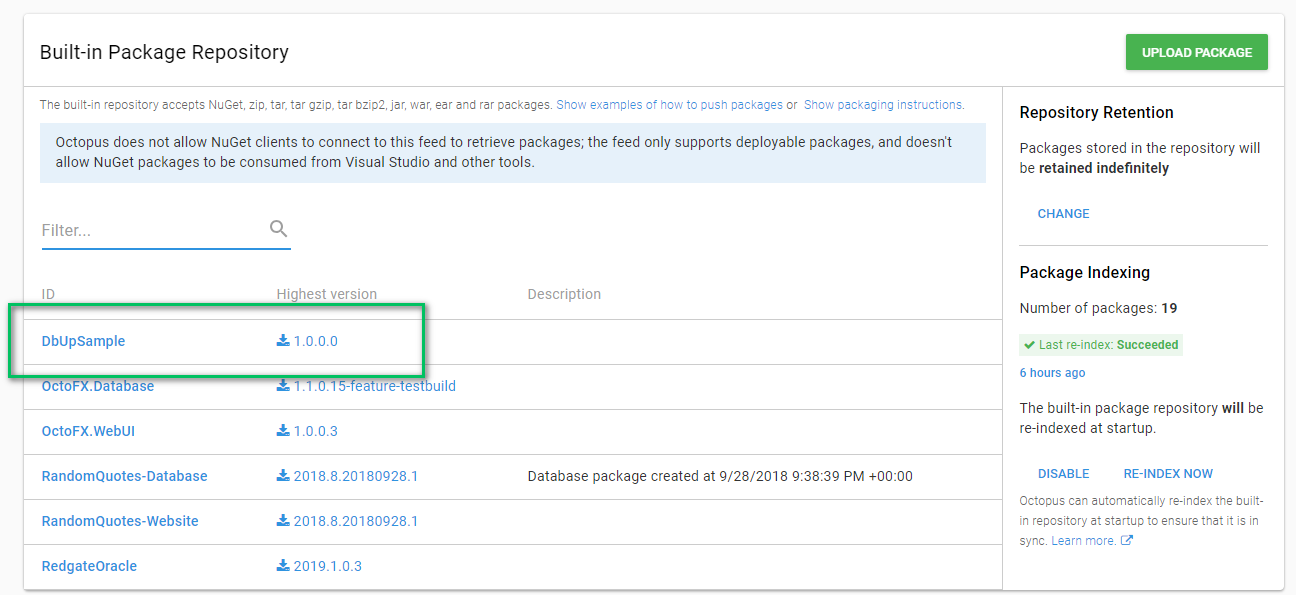
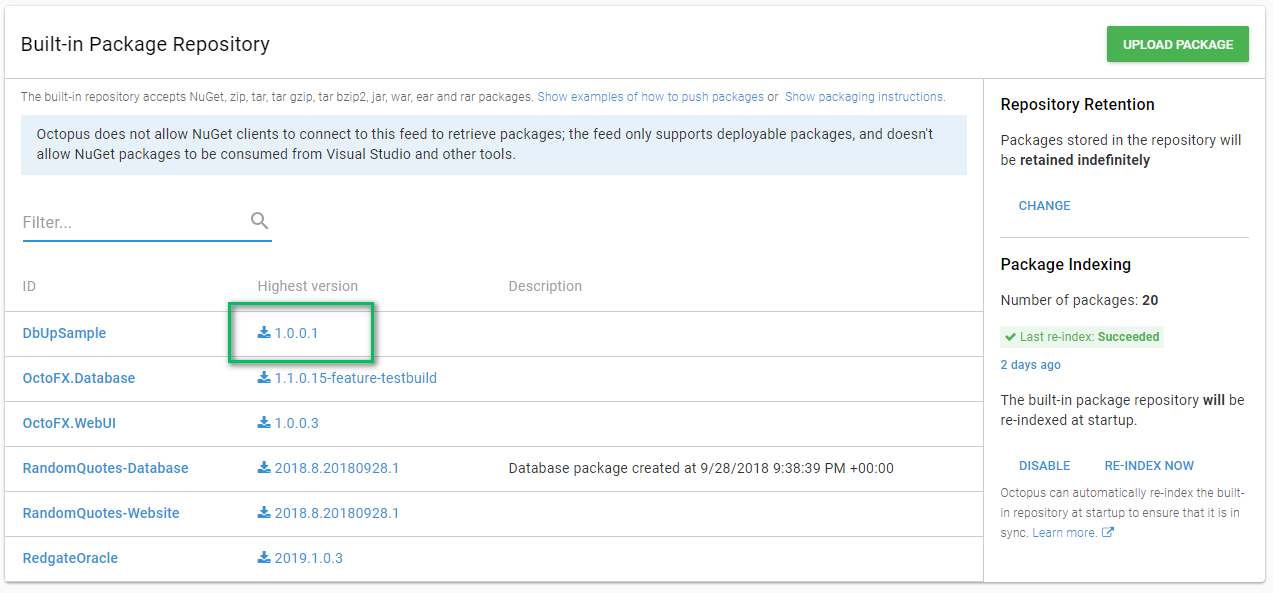
Wrapping up DbUp blog post.

diff --git a/blog/2019-02/dbup-database-deployments/index.md b/blog/2019-02/dbup-database-deployments/index.md
@@ -1,6 +1,17 @@
-One of the most exciting aspects of database deployments is the number of tools released in the last 10 years.  Looking at my [previous posts](https://octopus.com/blog/tag/Database%20Deployments) on this topic and I have shown a clear bias towards Redgate's tooling.  I do have a bit of a bias towards their tools.  I'm a [friend of Redgate](https://www.red-gate.com/hub/events/friends-of-rg/friend/BobWalker) for a reason.  
+---
+title: Using DBUp and Workers to Automate Database Deployments
+description: Using DBUp and Workers to Automate Database Deployments
+author: bob.walker@octopus.com
+visibility: public
+published: 2019-02-28
+metaImage: metaimage-sqlscript.png
+bannerImage: blogimage-sqlscript.png
+tags:
+ - Database Deployments
+---
+One of the most exciting aspects of database deployments is the number of tools released in the last ten years.  Looking at my [previous posts](https://octopus.com/blog/tag/Database%20Deployments) on this topic and I have shown a clear bias towards Redgate's tooling.  I do have a bit of a bias towards their tools.  I'm a [friend of Redgate](https://www.red-gate.com/hub/events/friends-of-rg/friend/BobWalker) for a reason.  
 
-I'm going to switch gears a bit and focus on a different tool for this post, [DbUp](https://dbup.readthedocs.io/en/latest/).  DbUp is a free, open-source tool, which we use here at Octopus Deploy for our database deployments.  Anytime you install or upgrade Octopus Deploy, DbUp is the one who runs the scripts to update your database.  Our founder, Paul Stovell, wrote a [blog post back](https://github.com/DbUp/DbUp/graphs/contributors) in 2012 on how to use DBUp to deploy to a SQL Server.  For the most part, that blog post still holds up today.  Except for the outdated images.  Want to see what Octopus Deploy looked like years ago?  Check out that post.  
+I'm going to switch gears a bit and focus on a different tool for this post, [DbUp](https://dbup.readthedocs.io/en/latest/).  DbUp is a free, open-source tool, which we use here at Octopus Deploy for our database deployments.  Anytime you install or upgrade Octopus Deploy, DbUp is the one who runs the scripts to update your database.  Our founder, Paul Stovell, wrote a [blog post back](https://github.com/DbUp/DbUp/graphs/contributors) in 2012 on how to use DbUp to deploy to a SQL Server.  For the most part, that blog post still holds up today.  Except for the old images.  Want to see what Octopus Deploy looked like years ago?  Check out that post.  
 
 This post is an update to that old post.  I am going to walk through some of the new features recently added to DbUp and create a process to use DbUp for production deployments.  It even includes a review step for a DBA to approve!  Read on!
 
@@ -8,13 +19,13 @@ This post is an update to that old post.  I am going to walk through some of the
 
 ## Changes to DbUp
 
-At it's core, DbUp is a script runner.  Each change made to the database is done by a script.
+At its core, DbUp is a script runner.  Each change made to the database is done via a script.
 
 - Script001_AddTableA.sql
 - Script002_AddColumnTestToTableA.sql
 - Script003_AddColumnTestAgainToTableA.sql
 
-DbUp is then run through a console application you write yourself.  You control which options to use.  The amount of code needed is pretty small.
+DbUp runs through a console application you write yourself.  You control which options to use.  The amount of code needed is pretty small.
 
 ```C
 static int Main(string[] args)
@@ -49,17 +60,17 @@ static int Main(string[] args)
 }
 ```
 
-You bundle up those scripts and tell DbUp to run them.  It compares that list against a list stored in the destination database.  Any scripts not in that destination's database list will be ran.  The scripts are run in alphabetical order.  The results of each script is displayed.  Very simple to implement.  Very simple to understand.  
+You bundle up those scripts and tell DbUp to run them.  It compares that list against a list stored in the destination database.  Any scripts not in that destination's database list will be run.  The scripts are executed in alphabetical order.  The results of each script are displayed on the console.  Very simple to implement.  Very simple to understand.  
 
 ![](dbup-output.png)
 
-And that works great...when deploying to a development or test environment.  A lot of companies I talk to prefer a DBA approve scripts prior to going to production.  And, maybe a staging or pre-production environment as well.  Especially starting out.  When the trust in the process is low.  
+That works great...when deploying to a development or test environment.  Many companies I talk to prefer their DBAs approve scripts before going to production.  Maybe a staging or pre-production environment as well.  This approval process is essential, especially at the start.  At that time the trust in the process is low.  
 
 ### HTML Report
 
-Migration scripts are a double edged sword.  Just like memory management in C++.  You have total control, which gives you a lot of power.  But it is also easy to mess up.  It all depends on the type of change being done and the SQL Skills of the writer.  The trust of the DBAs will be very low when have inexperienced C# developers writing these migration scripts.  Especially if you are starting down the automated database deployment path.  
+Migration scripts are a double-edged sword, just like memory management in C++.  You have total control, which gives you much power.  However, it is also easy to mess up.  It all depends on the type of change being done and the SQL Skills of the writer.  The trust of the DBAs will be very low when inexperienced C# developers are writing these migration scripts.  Especially if you are starting down the automated database deployment path.  
 
-Recently I added in the the functionality to DbUp to generate an HTML report.  It is an extension method where you give it the path of the report you wish to generate.  That means this section goes from:
+Recently the functionality was added to DbUp to generate an HTML report.  It is an extension method where you give it the path of the report you wish to generate.  That means this section goes from:
 
 ```C
 var result = upgrader.PerformUpgrade();
@@ -97,15 +108,15 @@ else
 }
 ```
 
-This will generate a report containing all the scripts which are going to be run.
+That code will generate a report containing all the scripts which are going to be run.
 
 ![](db-htmlreport.png)
 
 ### Always Run Script and Script Grouping
 
-By default DbUp will run a script once.  Majority of the time that is fine.  There are times where it would be nice to always run a script.  An example would be a post deployment script to refresh all the views.  Or a script to rebuild all the indexes and regenerate stats.  You don't want to write a new script for each deployment.
+By default, DbUp will run a script once.  Majority of the time that is fine.  There are times where it would be nice to always run a script or set of scripts.  An example would be a post-deployment script to refresh all the views.  Alternatively, a script to rebuild all the indexes and regenerate stats.  You don't want to write a new script for each deployment.
 
-Another feature I added to DbUp is the ability to mark a group of scripts as `always run` and provide a run group.  
+Another feature recently added to DbUp is the ability to mark a group of scripts as `AlwaysRun` and provide a run group.  
 
 ```C
 var upgradeEngineBuilder = DeployChanges.To
@@ -135,23 +146,23 @@ else
 
 ## Create the DbUp Console Application
 
-With these new features we are going to put together a .NET Core DbUp console application to deploy to SQL Server.  Then we will put together a process in Octopus Deploy for it to run that console application.  
+With these new features, we are going to put together a .NET Core DbUp console application to deploy to SQL Server.  Then we will put together a process in Octopus Deploy for it to run that console application.  
 
 All the code below be found on [GitHub](https://github.com/OctopusSamples/DbUpSample).
 
 **Please Note:** I chose .NET Core over .NET Framework because it could be built and run anywhere.  DbUp is a .NET Standard library.  DbUp will work just as great in a .NET Framework application.  
 
-Alright, let's fire up our IDE of choice and create an .NET Core Console Application.
+Let's fire up our IDE of choice and create a .NET Core Console Application.
 
 **Please Note:** I am using JetBrain's Rider to build this console application.  I prefer it over Visual Studio.
 
 ### Scaffolding
 
-Alright, we have the console application created.  Now we need to bring in the DbUp NuGet packages.  Let's go to our NuGet Package Manager.
+The console application has been created.  Now we need to bring in the DbUp NuGet packages.  Let's go to our NuGet Package Manager.
 
 ![](rider-managenugetpackagesselection.png)
 
-Next we want to select the DbUp-SqlServer package.  This includes the core package as well as the necessary code to deploy to SQL Server.  If you want to deploy to PostgreSQL, MySQL, Oracle, or Sqlite you would pick those.  
+Next, we want to select the DbUp-SqlServer package.  That package includes the core package as well as the necessary code to deploy to SQL Server.  If you want to deploy to PostgreSQL, MySQL, Oracle, or SQLite, you would pick those.  
 
 ![](rider-selectingdbuppackage.png)
 
@@ -159,9 +170,9 @@ The console application needs some scripts to deploy.  I'm going to add three fo
 
 ![](rider-createfolderswithsamplescripts.png)
 
-**Please Note:** It is highly recommended you add a prefix such as 001, 002, etc to the start of your script file name.  DbUp runs the scripts in alphabetical order.  That prefix will help ensure scripts are run in the right order.
+**Please Note:** It is highly recommended you add a prefix such as 001, 002, etc. to the start of your script file name.  DbUp runs the scripts in alphabetical order.  That prefix will help ensure scripts are run in the right order.
 
-By default .NET will not include those scripts files when the console application is built.  We want to include those script files as embedded resources.  Thankfully we can easily add a reference those files by including this code in the `.csproj` file.
+By default .NET will not include those scripts files when the console application is built.  We want to include those script files as embedded resources.  Thankfully we can easily add a reference to those files by including this code in the `.csproj` file.
 
 ```XML
     <ItemGroup>
@@ -180,7 +191,7 @@ The entire file would then look like.
 The final step to get this application going is to add in the necessary code in the `Program.cs` to call DbUp.  The application will accept parameters from the command line.  Octopus Deploy will be configured to send in those parameters.  The parameters we will create in this walkthrough will be:
 
 - ConnectionString -> No need to explain this one.  For this demo, we will be sending as a parameter instead of storing in the config file.  You can use the config file and Octopus Deploy's variable replacement in your code.  Up to you.
-- PreviewReportPath -> Full path where to save the preview report.  This is optional.  When it is sent in we will generate a preview html report for Octopus Deploy to make an artifact for.  When it is not sent in the code will do the actual deployment.
+- PreviewReportPath -> Full path where to save the preview report.  The full path parameter is optional.  When it is sent in we will generate a preview HTML report for Octopus Deploy to make an artifact for.  When it is not sent in the code will do the actual deployment.
 
 Let's start with pulling the connection string from the command line argument.
 
@@ -195,7 +206,7 @@ static void Main(string[] args)
 
 DbUp uses a fluent API.  We need to tell it about our folders, the type of script each folder is and the order we want to run scripts from that folder in.
 
-**Please Note:** If you use the Scripts Embedded In Assembly option with a "StartsWith" search you will need to supply the full NameSpace on your search.
+**Please Note** If you use the Scripts Embedded In Assembly option with a "StartsWith" search you will need to supply the full NameSpace on your search.
 
 ```C
 var upgradeEngineBuilder = DeployChanges.To
@@ -216,7 +227,7 @@ var upgrader = upgradeEngineBuilder.Build();
 Console.WriteLine("Is upgrade required: " + upgrader.IsUpgradeRequired());
 ```
 
-The upgrader has been built and it is ready to run.  This section is where will inject the check for the upgrade report parameter.  If that parameter is set, do not run the upgrade.  Instead, generate a report for Octopus Deploy to upload as an artifact.
+The upgrader has been built, and it is ready to run.  This section is where will inject the check for the upgrade report parameter.  If that parameter is set, do not run the upgrade.  Instead, generate a report for Octopus Deploy to upload as an artifact.
 
 ```C
 if (args.Any(a => a.StartsWith("--PreviewReportPath", StringComparison.InvariantCultureIgnoreCase)))
@@ -324,9 +335,9 @@ Running the console application with the report parameter enabled generates the 
 
 ### Future Work
 
-Creating the scaffolding and writing the code for program.cs file should only need to be done once.  With what we have setup, all you should need to do is add files to the `PreDeployment,` `PostDeployment,` and `Deployment` folders.  
+Creating the scaffolding and writing the code for the program.cs file should only need to be done once.  With what we have set up, all you should need to do is add files to the `PreDeployment,` `PostDeployment,` and `Deployment` folders.  
 
-The temptation is there to delete old files.  DbUp doesn't really like it when you do that.  The idea behind DbUp is it provides a history of all your database changes.  When you want to create a new database, for example on a new developer's machine, you just need to run this command line application.  It will go through and run all the scripts in order to get the database up and running.  Deleting a file might end up removing a key sequence, such as creating a table, adding an important column, or moving columns from one table to another.  There isn't much of a performance hit having extra files around.  DbUp will see they have run and exclude them from the run list.
+The temptation is there to delete old files.  DbUp doesn't like it when you do that.  The idea behind DbUp is that it provides a history of all your database changes.  When you want to create a new database, for example on a new developer's machine, you just need to run this command line application.  It will go through and run all the scripts to get the database up and running.  Deleting a file might end up removing a key sequence, such as creating a table, adding a critical column, or moving columns from one table to another.  There isn't much of a performance hit having extra files around.  DbUp will see they have run and exclude them from the run list.
 
 You could move around the older files into a new folder and add a new command line argument which to pick up those files.  
 
@@ -334,27 +345,27 @@ You could move around the older files into a new folder and add a new command li
 
 I'm going to assume you know how to build a .NET Core application and package it up.  If you do not, here is the quick TL;DR;  
 
-- Run the `dotnet publish` command on the project.  Set the output path.
+- Run the `dotnet publish` command on the project (don't forget the output path).
 - Run `octo.exe pack` to package up the output path (or use the Octopus Deploy build server plug-in).
 - Push the package to Octopus Deploy using `octo.exe push` command (or use the Octopus Deploy build server plug-in).
 
-To make your life easier for this demo I have included version 1.0.0.0 of the sample application as a zip file in GitHub repo.  You can find that file in the root directory of the repo.  A quick upload and we now have a package ready to deploy.
+To make your life easier for this demo I have included version 1.0.0.1 of the sample application as a zip file in GitHub repo.  You can find that file in the root directory of the repo.  A quick upload and we now have a package ready to deploy.
 
 ![](octopusdeploy-uploadedpackage.png)
 
-I subscribe to the theory a Octopus Deploy project should be responsible for bootstrapping itself.  For database deployments, this means making sure the database exists prior to deployment and creating the necessary SQL Server Users.
+I subscribe to the theory that an Octopus Deploy project should be responsible for bootstrapping itself.  For database deployments, this means making sure the database exists before deployment and creating the necessary SQL Server Users.
 
 Before getting to the process, we need to define some variables.  Because this is a demo for a blog post, I am going to use the same database server for all environments.  
 
 ![](octopusdeploy-demovariables.png)
 
-To create the database and user I am using the community step templates I created for earlier blog posts.  You can download those step templates to your Octopus Deploy instance by going to the [library](https://library.octopus.com) Or, you can go to the step template library on your Octopus Deploy instance and add them.
+To create the database and user, the process will be using the community step templates I created for earlier blog posts.  You can download those step templates to your Octopus Deploy instance by going to the [library](https://library.octopus.com) Or, you can go to the step template library on your Octopus Deploy instance and add them.
 
-Adding in the first step presents us with a decision.  Where to run the step.  Should it run on a target or on a worker?  For right now, I am going to run this on a worker in the `Database Worker Pool.` I picked the worker pool because I am using SQL Authentication.  If I was using integrated security with this process there is some additional setup to be done.  I will cover that later in the post.  For now, I want to go through the process.
+Adding in the first step presents us with a decision.  Where to run the step.  Should it run on a target or a worker?  For right now, I am going to run this on a worker in the `Database Worker Pool.` I picked worker pools because I am using SQL Authentication.  I don't have to worry about integrated security and unique service accounts per environment.  If I was using integrated security with unique service accounts per environment with this process, there is some additional setup to be done.  I will cover that later in the post.  For now, I want to make this as simple as possible.
 
 ![](octopusdeploy-createdatabasestep.png)
 
-With this process we first want to put the scaffolding in place to create the database, the user and assign the user database.  
+We first want to put the scaffolding in place to create the database, the user and assign the user database.  
 
 ![](octopusdeploy-initialdatabasedeployscaffolding.png)
 
@@ -365,19 +376,21 @@ The next set of steps will deploy the database changes from DbUp.  If you recall
 3) DBA Approve Deployment
 4) Run Redgate Deploy Database Release
 
-I have a couple of problems with that process.  Namely, the download package step is designed to extract the package and leave it on the tentacle.  By default it will leave it there forever.  Unless [retention policies](https://octopus.com/docs/administration/retention-policies) are configured.  My problem with that is after the deployment is complete there is no need to keep that extracted package on the tentacle.  The SQL Scripts have been run.  The scripts are now just taking up space.  In addition, that process has steps 2 and 4 referencing step 1.  It feels like a lot of extra work.
+I have a couple of problems with that process.  Namely, the download package step is designed to extract the package and leave it on the tentacle.  By default, it will leave it there forever.  Unless [retention policies](https://octopus.com/docs/administration/retention-policies) are configured.  My problem with that is after the deployment is complete there is no need to keep that extracted package on the tentacle.  The SQL Scripts have been run.  The scripts are now just taking up space.  Also, that process has steps 2 and 4 referencing step 1.  It feels like much extra work.
 
-If you are using Octopus Deploy 2018.8 or higher the good news is we can now reference packages from the `Run a Script` step.  The package will be downloaded and extracted.  Once the step is complete it will delete the extracted package.  Aside from cleaning up unneeded content, using package references in the `Run a Script` step lends itself nicely to running this process on workers.  Each step is isolated from one another.  
+If you are using Octopus Deploy 2018.8 or higher the good news is we can now reference packages from the `Run a Script` step.  The package will be downloaded and extracted.  Once the step is complete, it will delete the extracted package.  Aside from cleaning up unneeded content, using package references in the `Run a Script` step lends itself nicely to running the deployment on workers.  Workers assume each step is isolated from one another — this way a different worker can do the work per step.
 
-The first step in the deployment piece of this process will generate the HTML report and upload it as an artifact to Octopus Deploy.  First things first, we need to add a package reference to the step.  First click on the `Add` button.  
+The first step in the deployment piece of this process will generate the HTML report and upload it as an artifact to Octopus Deploy.  Let's start with adding a package reference to the step by clicking on the `Add` button.
 
 ![](octopusdeploy-addpackagereference.png)
 
-When the modal window appears choose the package to extract.
+When the modal window appears to choose the package to extract.
 
 ![](octopusdeploy-addpackagereferencemodal.png)
 
 Now we can add a script to handle the deployment.  Running .NET Core console apps is a little different than running .NET Framework Console apps.
+
+**Please Note:** It all depends on the various switches you set when building and publishing the application.  You could create a self-contained console application (.exe) with all the necessary .dlls.  Doing that does increase the size of the package.  Alternatively, you could set it to create a .dll only with references to all the external dependencies.  In the example package, I opted to create a self-contained package, but exclude the .exe in the zip file.  This way you don't have to worry about running a restore.
 
 ```PS
 # How you reference the extracted path
@@ -389,7 +402,7 @@ $dllToRun = "$packagePath\DbUpSample.dll"
 $generatedReport = "$reportPath\UpgradeReport.html"
 
 if ((test-path $reportPath) -eq $false){
-	New-Item $reportPath -ItemType "directory"
+    New-Item $reportPath -ItemType "directory"
 }
 
 # How you run this .NET core app
@@ -398,11 +411,11 @@ dotnet $dllToRun --ConnectionString="$connectionString" --PreviewReportPath="$re
 New-OctopusArtifact -Path "$generatedReport" 
 ```
 
-The entire step will looks like this when you are done:
+The entire step will look like this when you are done:
 
 ![](octopusdeploy-createdeltareport.png)
 
-Nothing super fancy about the manual intervention.  In this example I configured it to run only in Staging and Production and have the DBAs approve this deployment.
+Nothing super fancy about the manual intervention.  In this example, I configured it to run only in Staging and Production and have the DBAs approve this deployment.
 
 ![](octopusdeploy-manualintervention.png)
 
@@ -416,7 +429,7 @@ $connectionString = $OctopusParameters["Project.Database.ConnectionString"]
 $dllToRun = "$packagePath\DbUpSample.dll"
 
 # How you run this .NET core app
-dotnet $dllToRun --ConnectionString="$connectionString" --GenerateReport="$reportPath"
+dotnet $dllToRun --ConnectionString="$connectionString"
 ```
 
 ![](octopusdeploy-deploychanges.png)
@@ -445,6 +458,49 @@ Let's try that release again.  Hindsight being what it is I could've told it to 
 
 ![](octopusdeploy-anotherrelease.png)
 
-This one was successful (actually I had a few more failures because I was trying something else).  You can see the artifact created by the process.
+This one was successful (actually I had a few more failures because I was trying something else).  You can see the artifact created by the process.  That is what the DBA will download to review in staging and production.
 
 ![](octopusdeploy-successfulrelease.png)
+
+If we take a look at the database, we see the items were created as expected.
+
+![](ssms-successfuldeployment.png)
+
+## Integrated Security and Workers
+
+In this demo, I used SQL Authentication.  However, many of you are using integrated security.  For an additional layer of security, each environment has its own Active Directory.  That makes complete sense.  I recommend that approach.  
+
+How can you accomplish this with the current generation of workers?  It is not as straight-forward as it should be (something we are hoping to address in workers v2).  I'll walk you through the necessary steps to set it up.
+
+To start, we need to create a dedicated worker pool for each environment.
+
+![](octopusdeploy-environmentspecificworkerpools.png)
+
+Next, we need to create cloud region deployment targets.  Cloud region is a bit of misnomer.  It is a fancy way of saying "grouped deployment targets."  
+
+**Please Note:** Cloud Region deployment targets do NOT count against your license.
+
+You will create a cloud region for each environment.  I created a new role called `DbWorker` for these cloud regions.  I wanted a way to differentiate these new deployment targets.
+
+![](octopusdeploy-createcloudregion.png)
+
+When I am done, I ended up with four new cloud regions.
+
+![](octopusdeploy-environmentcloudregions.png)
+
+I will change the execution location of the process to run on a target with the `DbWorker` role for that environment.
+
+![](octopusdeploy-executionlocation.png)
+
+Repeat that same change for each step in the process.
+
+![](octopusdeploy-processwithcloudregiontargets.png)
+
+When a new release is deployed to testing the `Test Database Worker Region` is picked.
+
+![](octopusdeploy-releasewithcloudregion.png)
+
+## Conclusion
+
+Recent modifications made to DbUp help create a robust deployment pipeline for databases.  Now DBAs (and others) can review changes via Octopus Deploy before they are deployed.  Having the ability to review the changes should help build trust in the process and help speed up the adoption.
+
